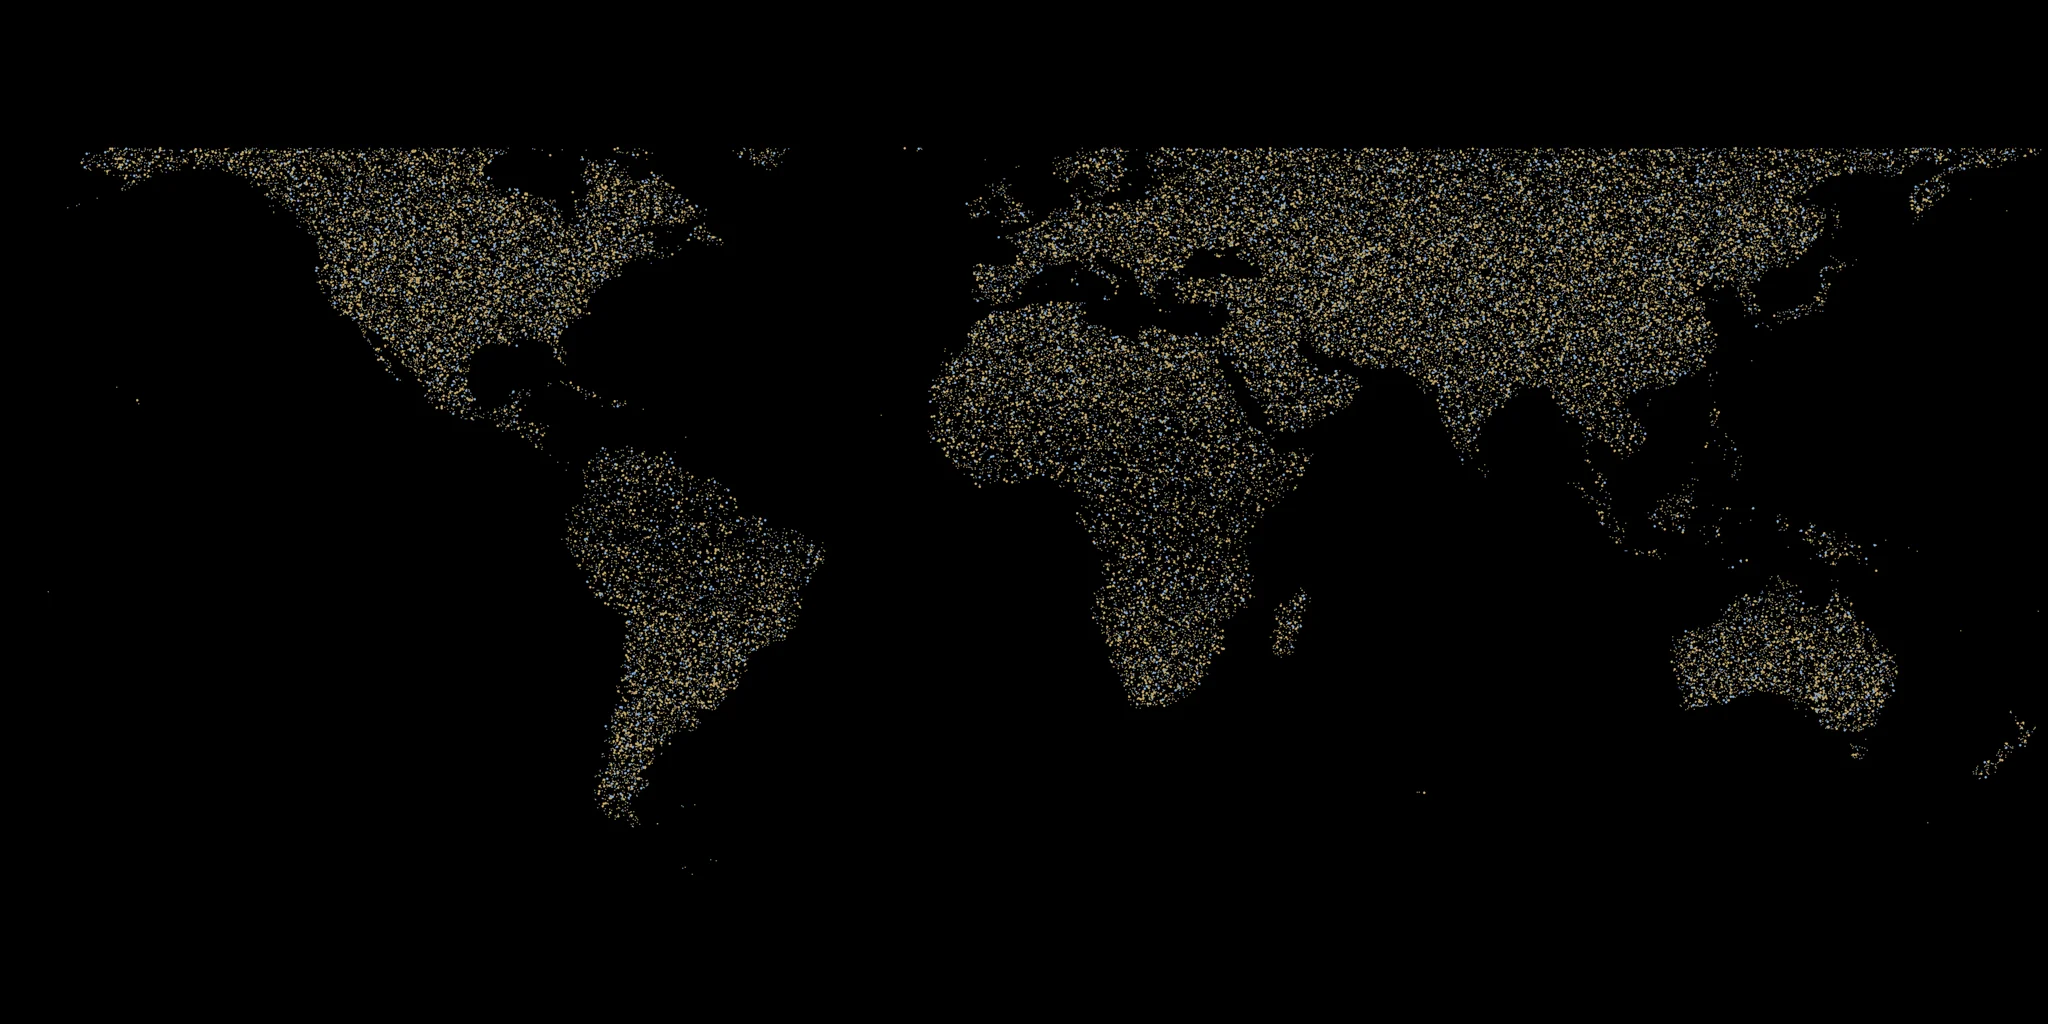
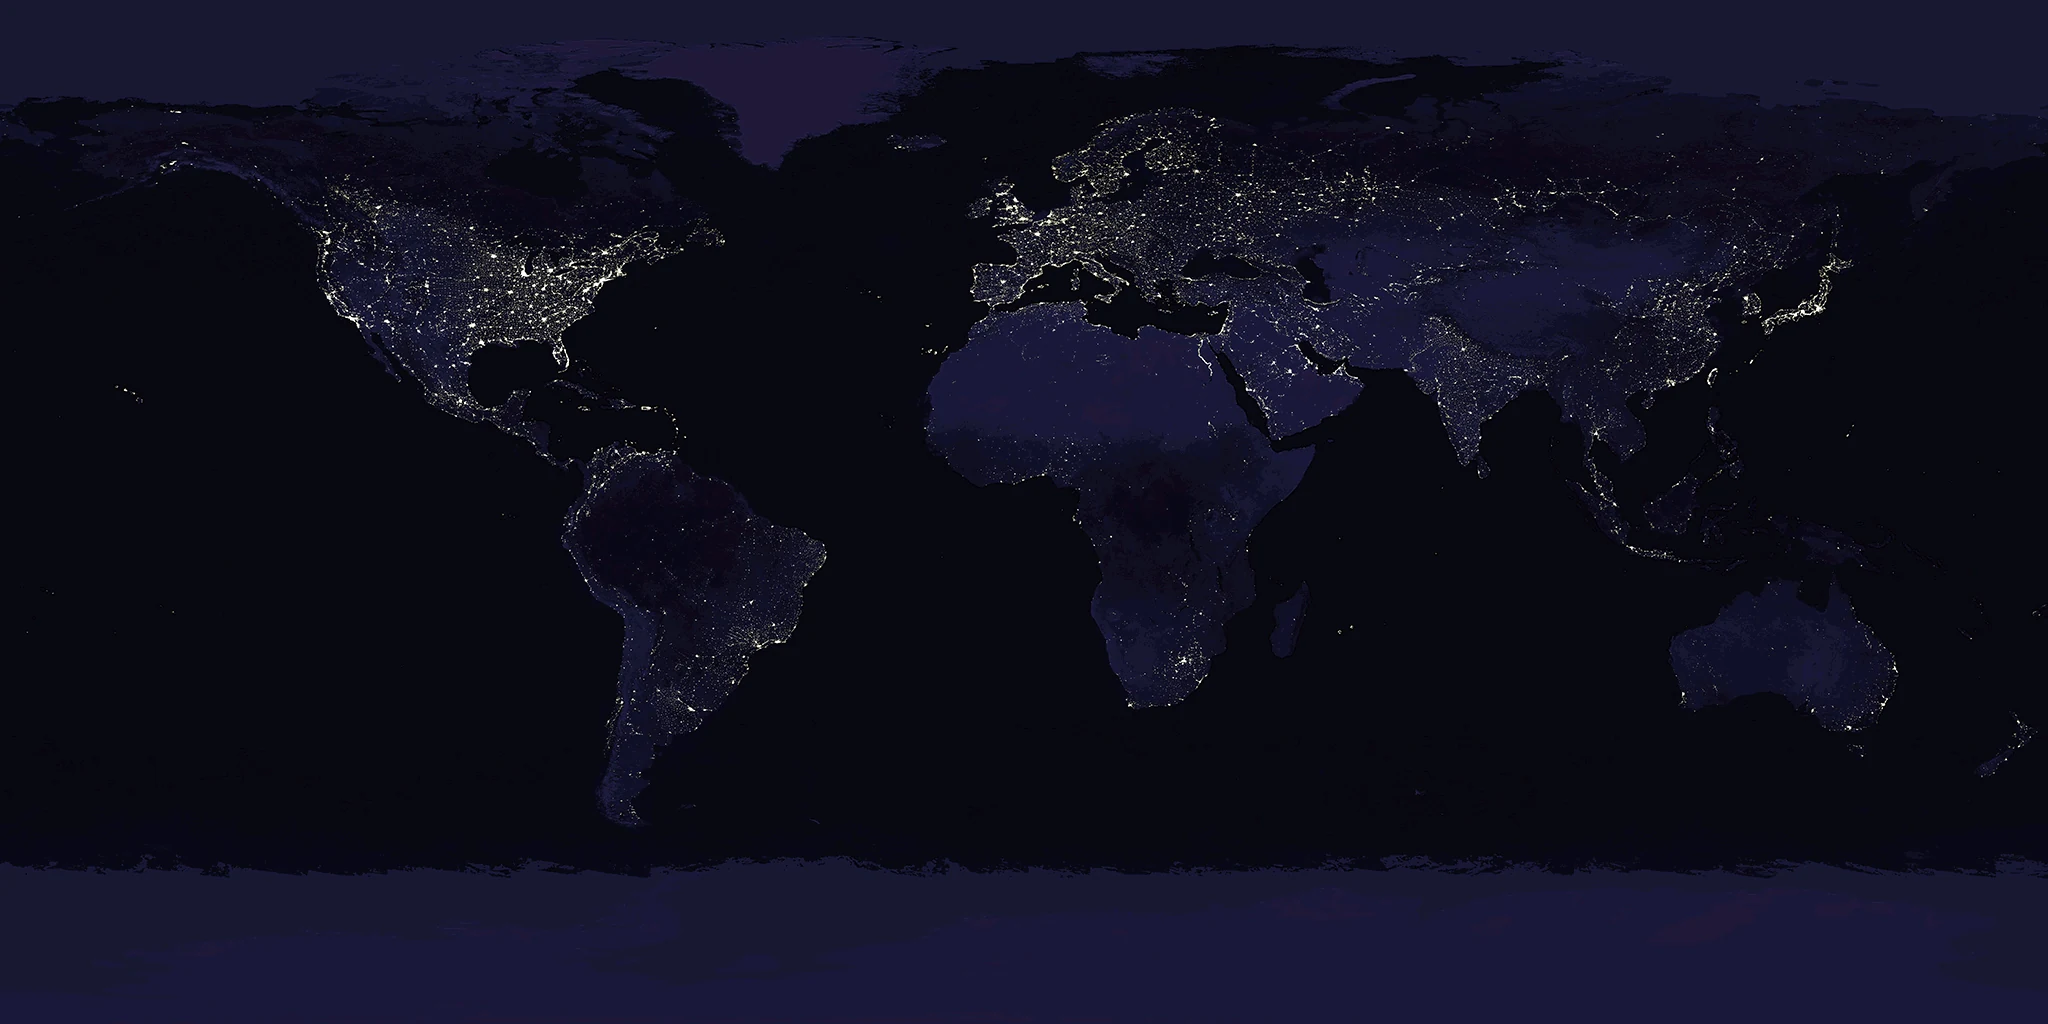
1.23.0: настоящая Земля (Blue Marble), рельеф из высот, атмосферное свечение

diff --git a/app/src/GlobePlanet.tsx b/app/src/GlobePlanet.tsx
@@ -73,12 +73,15 @@ void main() {
   // У полюсов строки текстуры сходятся в точку: любой рисунок там растягивается
   // в радиальные лучи. Гасим облака и тень у полюсов — так чище и физично.
   float polar = polarSame;
-  float cloud = texture2D(uClouds, vec2(vUv.x + uCloudShift, vUv.y)).r * (1.0 - polar);
+  // Плотность облаков в текстуре низкая: без кривой весь шар выглядит молочным.
+  float cloud = pow(texture2D(uClouds, vec2(vUv.x + uCloudShift, vUv.y)).r, 1.35) * (1.0 - polar);
   float shadowUvX = vUv.x + uCloudShift + 0.012 * dot(sun, east);
   float shadowUvY = vUv.y - 0.012 * dot(sun, north);
   float cloudShadow = texture2D(uClouds, vec2(shadowUvX, shadowUvY)).r * (1.0 - polar);
 
   vec3 base = texture2D(uDay, vUv).rgb;
+  // Вода чуть глубже суши: снимок NASA на шаре выглядит слишком светлым.
+  base *= mix(1.0, 0.93, water);
   base *= mix(1.0, 0.80, cloudShadow * 0.9);
 
   // Свет: тёплое солнце + холодная подсветка с ночной стороны.
@@ -100,7 +103,7 @@ void main() {
 
   // Облака: сверху свой свет, в тени почти не видно.
   float lit = 0.14 + 1.02 * max(ndl, 0.0);
-  col = mix(col, vec3(0.92, 0.95, 1.0) * lit, cloud * 0.36);
+  col = mix(col, vec3(0.94, 0.96, 1.0) * lit, cloud * 0.42);
 
   // Атмосфера: плотная голубая дымка у края диска, ярче со стороны солнца.
   float rim = 1.0 - clamp(dot(n, eye), 0.0, 1.0);
@@ -274,7 +277,7 @@ export function GlobePlanet({ target, connected = false, label, size }: Props) {
     gl.bufferData(gl.ELEMENT_ARRAY_BUFFER, geo.idx, gl.STATIC_DRAW);
 
     const day = loadTex(gl, "/earth/day.webp", gl.REPEAT);
-    const normal = loadTex(gl, "/earth/normal.png", gl.REPEAT);
+    const normal = loadTex(gl, "/earth/normal.webp", gl.REPEAT);
     const water = loadTex(gl, "/earth/water.png", gl.REPEAT);
     const lights = loadTex(gl, "/earth/lights.webp", gl.REPEAT);
     const clouds = loadTex(gl, "/earth/clouds.webp", gl.REPEAT);
@@ -367,6 +370,17 @@ export function GlobePlanet({ target, connected = false, label, size }: Props) {
       ctx.clearRect(0, 0, size, size);
       const s = state.current;
       const accent = connected ? "#5dff6a" : "#39FF14";
+
+      // Атмосферное свечение вокруг диска: тонкая голубая дымка за краем шара.
+      // Именно она даёт ощущение «настоящей планеты в космосе», а не кружка.
+      const glow = ctx.createRadialGradient(cx, cy, R * 0.97, cx, cy, R * 1.16);
+      glow.addColorStop(0, "rgba(122,190,255,0.26)");
+      glow.addColorStop(0.4, "rgba(86,146,255,0.12)");
+      glow.addColorStop(1, "rgba(46,96,206,0)");
+      ctx.fillStyle = glow;
+      ctx.beginPath();
+      ctx.arc(cx, cy, R * 1.16, 0, Math.PI * 2);
+      ctx.fill();
 
       if (target) {
         const steps = 72;

diff --git a/CHANGELOG.md b/CHANGELOG.md
@@ -1,5 +1,15 @@
 # Что менялось
 
+## Windows 1.23.0 — настоящая Земля со снимков NASA
+
+- Текстуры планеты теперь настоящие (Blue Marble, public domain): пустыни, леса,
+  льды и облака как на снимке из космоса, а не нарисованные биомы.
+- Рельеф взят из реальной карты высот: Гималаи, Анды, Альпы ловят свет и дают
+  тень; океан остаётся ровным, блик на воде узкий.
+- Облака стали плотнее и бросают тень на материки, вода глубже суши.
+- Вокруг диска появилось голубое атмосферное свечение.
+- Набор текстур стал легче: день 950 КБ, облака 130 КБ, нормали 200 КБ.
+
 ## Windows 1.22.1 — чистые полюса
 
 - У полюсов рельеф больше не разъезжается лучами: там, где строки текстуры
